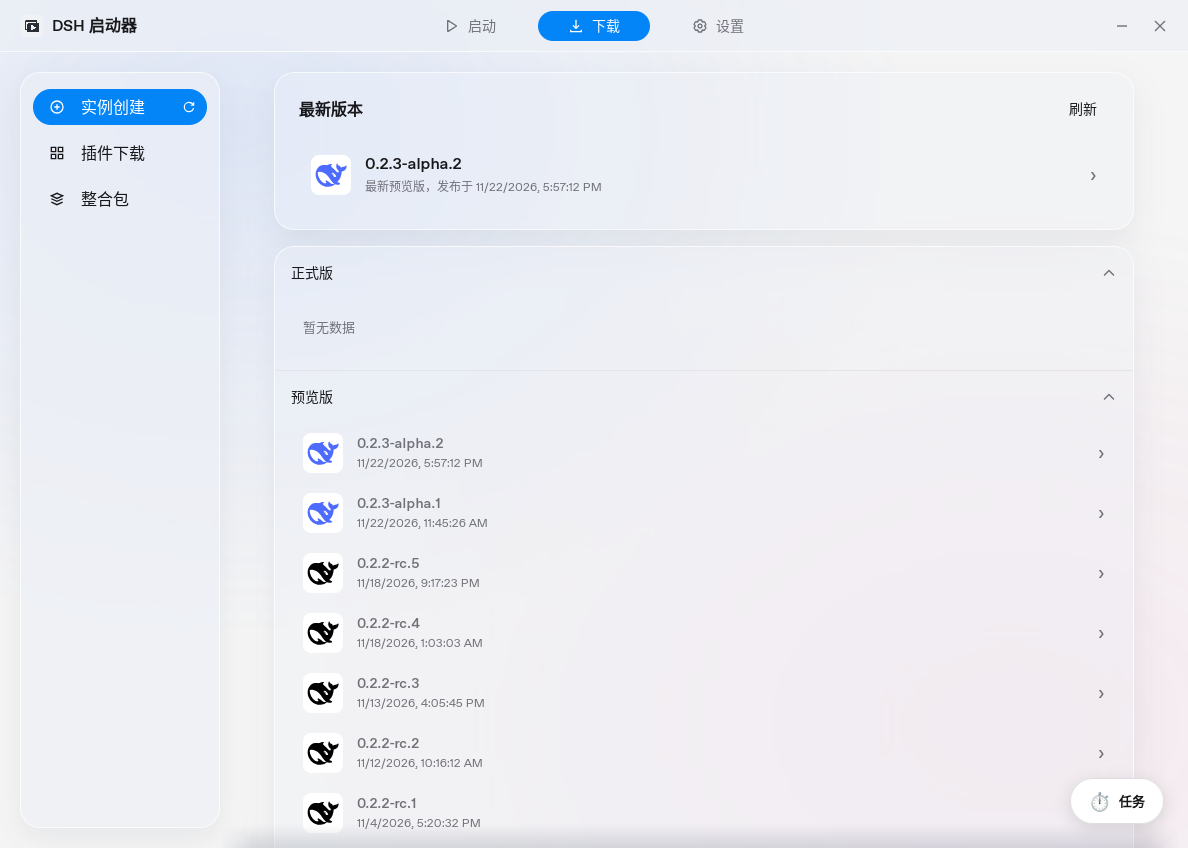
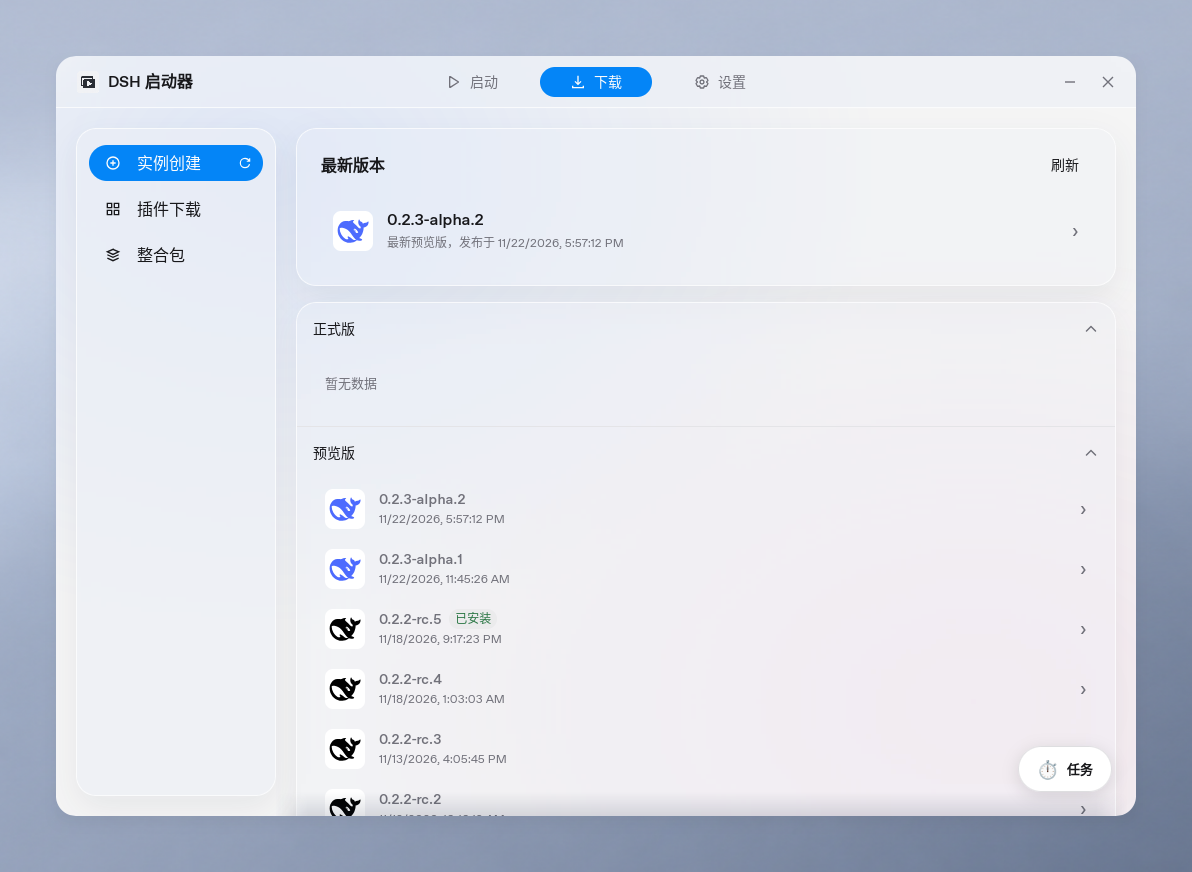
docs: 保留窗口截图的圆角与阴影

diff --git a/README.md b/README.md
@@ -36,7 +36,7 @@ A `DSH_HOME` holds profiles, conversations, and other DSH configuration. Use a d
 
 ## Screenshots
 
-Screenshots from the Linux desktop app using a sample instance.
+Screenshots from the Linux desktop app using a sample instance. The desktop compositor draws the outer window corners and shadows.
 
 | Launch | Create instance |
 | --- | --- |

diff --git a/README.zh_CN.md b/README.zh_CN.md
@@ -36,7 +36,7 @@
 
 ## 界面预览
 
-截图来自 Linux 桌面版，使用示例实例。
+截图来自 Linux 桌面版，使用示例实例。窗口外缘的圆角与阴影由桌面合成器绘制。
 
 | 启动页 | 实例创建 |
 | --- | --- |
